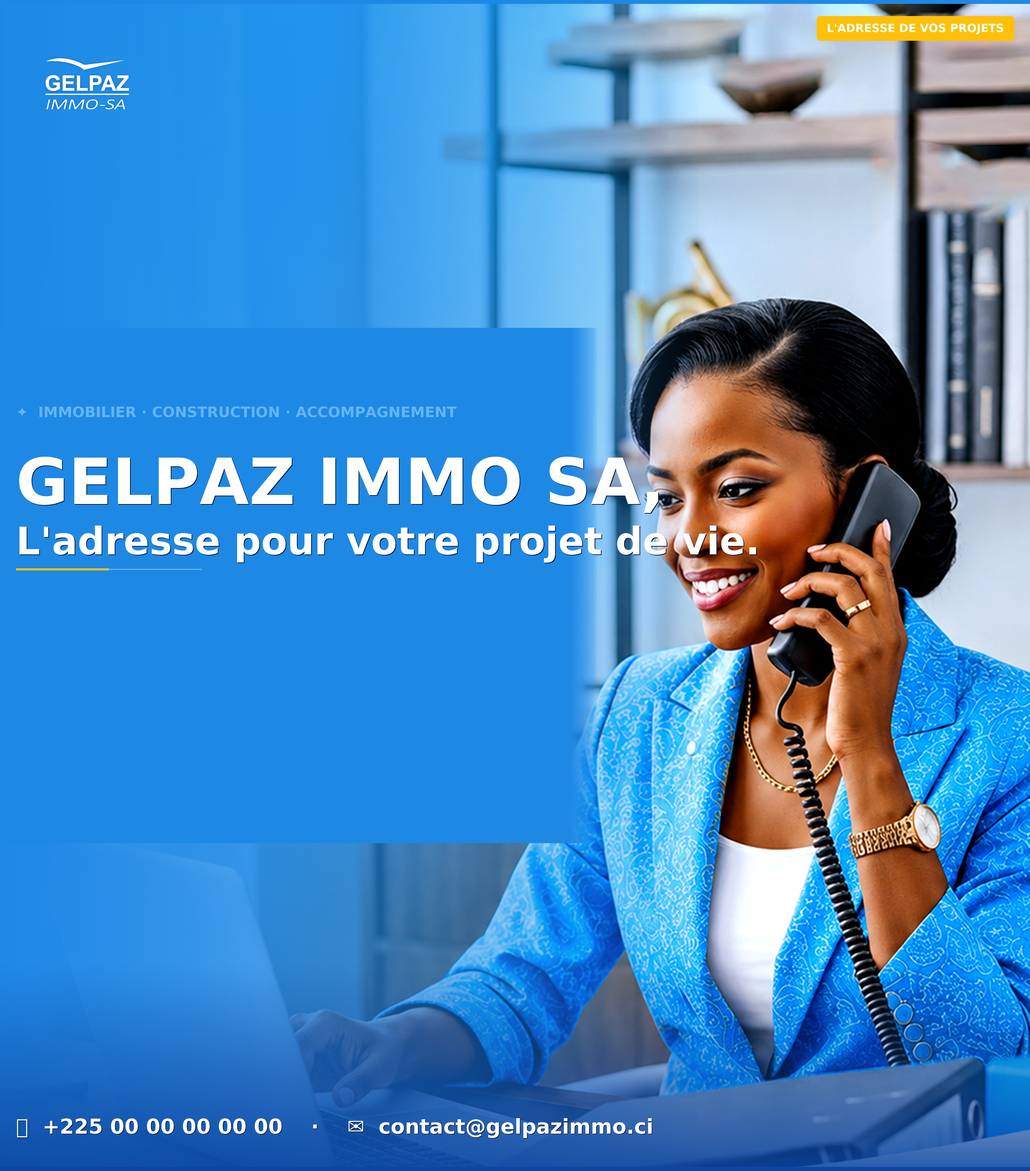
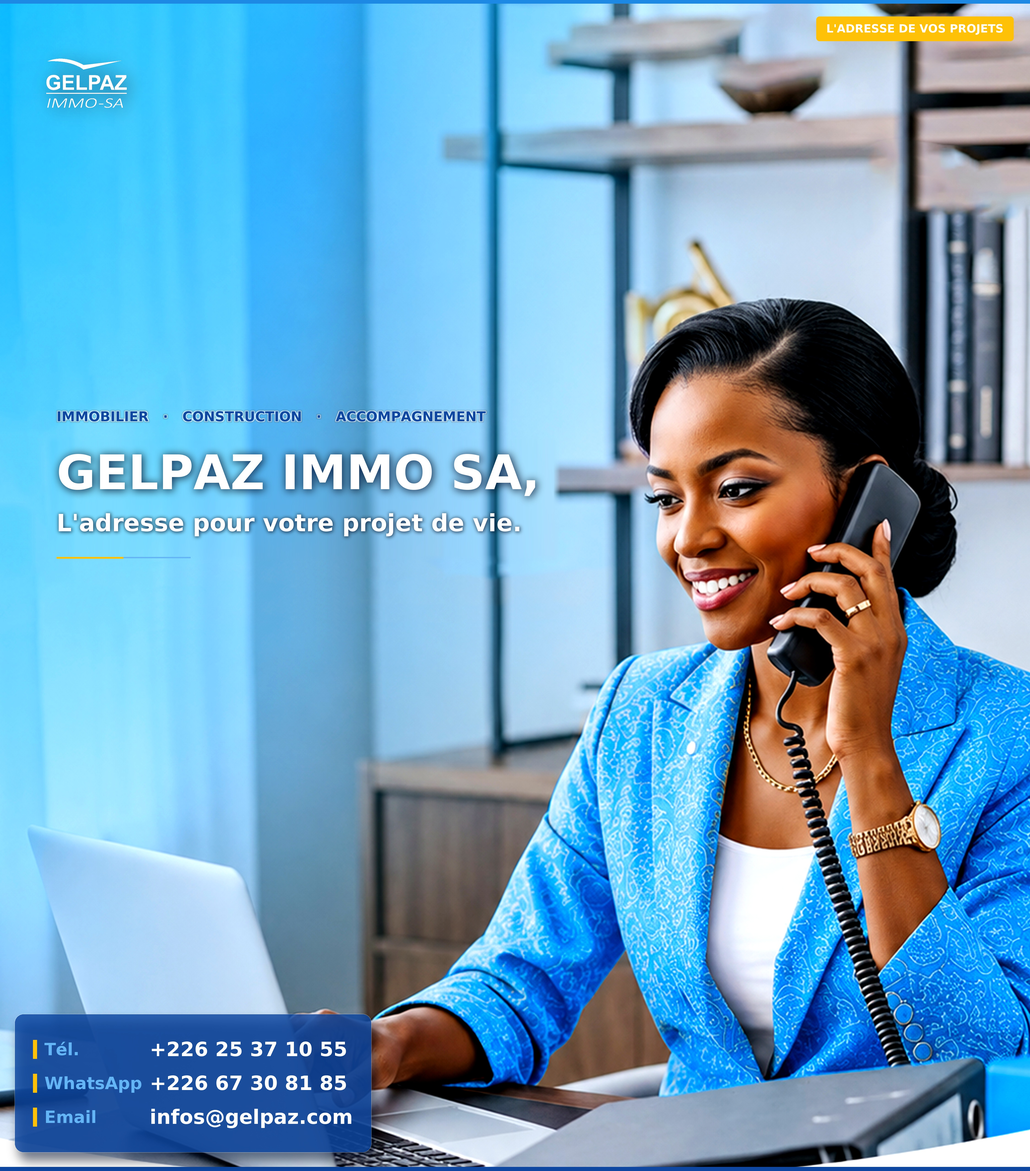
fix(hero): supprimer le panneau bleu et intégrer les vraies coordonnées
- Suppression du dégradé/plaque bleue à gauche : la photo respire pleinement
- Effacement du texte incrusté d'origine par interpolation verticale du mur
  (patch_region_wall) — aucun artefact visible, fond reconstruit proprement
- Bloc titre repositionné à l'emplacement naturel du mur, texte blanc avec
  ombre diffuse + halo pour la lisibilité sur fond clair
- Carte contact en bas à gauche avec les vraies coordonnées :
  Tél. +226 25 37 10 55 | WhatsApp +226 67 30 81 85 | infos@gelpaz.com
- Logo blanc (inversé) avec ombre portée haut gauche, badge doré haut droite

diff --git a/create_infographics.py b/create_infographics.py
@@ -248,88 +248,200 @@ def make_site():
 # ============================================================
 # 4) ADRESSE / HERO — recouvre l'ancien texte avec une plaque solide
 # ============================================================
+def patch_region_wall(img, x0, x1, y0, y1, feather_v=36, feather_h=30, band=26):
+    """Efface un texte incrusté sur un mur uniforme : chaque colonne de la zone
+    est reconstruite par interpolation verticale entre la bande de pixels juste
+    au-dessus et celle juste en dessous (le mur est régulier verticalement, donc
+    le résultat est indissociable du fond)."""
+    import numpy as np
+    a = np.array(img).astype(np.float32)
+    H_img, W_img, _ = a.shape
+    x0, x1 = max(0, x0), min(W_img, x1)
+    y0, y1 = max(band * 3, y0), min(H_img - band * 3, y1)
+    top = a[y0 - 2 * band:y0 - band, x0:x1].mean(axis=0)      # (W, 3)
+    bot = a[y1 + band:y1 + 2 * band, x0:x1].mean(axis=0)      # (W, 3)
+    H, W = y1 - y0, x1 - x0
+    t = np.linspace(0.0, 1.0, H)[:, None, None]
+    fill = top[None, :, :] * (1 - t) + bot[None, :, :] * t
+    patch = Image.fromarray(fill.astype(np.uint8), "RGB").convert("RGBA")
+    # Masque : 1 au centre, fondu sur les bords (le fondu reste hors du texte)
+    g = np.ones((H, W), np.float32)
+    for i in range(feather_v):
+        f = i / feather_v
+        g[i, :] *= f
+        g[H - 1 - i, :] *= f
+    for j in range(feather_h):
+        f = j / feather_h
+        g[:, j] *= f
+        g[:, W - 1 - j] *= f
+    patch.putalpha(Image.fromarray((g * 255).astype(np.uint8), "L"))
+    base = img.convert("RGBA")
+    base.alpha_composite(patch, (x0, y0))
+    return base.convert("RGB")
+
+
+def fit_font(text, target_w, font_path=FONT_BOLD):
+    """Renvoie une police réglée pour que le texte occupe ~target_w de large."""
+    probe = ImageFont.truetype(font_path, 100)
+    bb = probe.getbbox(text)
+    w100 = max(1, bb[2] - bb[0])
+    return ImageFont.truetype(font_path, max(12, int(100 * target_w / w100)))
+
+
+def text_soft_shadow(base, xy, text, font, fill=WHITE,
+                     shadow=(5, 28, 75, 215), offset=None, blur=None, stroke=None):
+    """Texte net + ombre diffuse (lisibilité sur fond clair)."""
+    x, y = xy
+    offset = offset or max(2, int(font.size * 0.022))
+    blur = blur or max(6, int(font.size * 0.085))
+    stroke = stroke if stroke is not None else max(1, int(font.size * 0.014))
+    layer = Image.new("RGBA", base.size, (0, 0, 0, 0))
+    ImageDraw.Draw(layer).text((x + offset, y + offset), text, font=font,
+                               fill=shadow, stroke_width=stroke, stroke_fill=shadow)
+    layer = layer.filter(ImageFilter.GaussianBlur(blur))
+    base.alpha_composite(layer)
+    ImageDraw.Draw(base).text((x, y), text, font=font, fill=fill)
+    return base
+
+
+def text_halo(base, xy, text, font, fill, halo=(255, 255, 255, 170), r=3):
+    """Texte avec halo clair (petits textes sur fond moyen)."""
+    x, y = xy
+    layer = Image.new("RGBA", base.size, (0, 0, 0, 0))
+    d = ImageDraw.Draw(layer)
+    for dx in range(-r, r + 1, 2):
+        for dy in range(-r, r + 1, 2):
+            if dx or dy:
+                d.text((x + dx, y + dy), text, font=font, fill=halo)
+    layer = layer.filter(ImageFilter.GaussianBlur(max(1, r // 2)))
+    base.alpha_composite(layer)
+    ImageDraw.Draw(base).text((x, y), text, font=font, fill=fill)
+    return base
+
+
+def paste_logo_shadowed(base, logo, xy, logo_w, shadow_alpha=150):
+    """Colle le logo avec une ombre portée douce et proportionnée."""
+    lw = logo_w
+    lh = int(logo_w * logo.size[1] / logo.size[0])
+    logo_r = logo.resize((lw, lh), Image.LANCZOS)
+    blur = max(8, int(lw * 0.055))
+    off = max(3, int(lw * 0.020))
+    pad = blur * 2
+    alpha = logo_r.getchannel("A")
+    sh = Image.new("RGBA", (lw + 2 * pad, lh + 2 * pad), (0, 0, 0, 0))
+    sh.paste(Image.new("RGBA", (lw, lh), (2, 22, 60, 255)), (pad, pad), alpha)
+    sh = sh.filter(ImageFilter.GaussianBlur(blur))
+    sh.putalpha(sh.getchannel("A").point(lambda p: int(p * shadow_alpha / 255)))
+    x, y = xy
+    lay = Image.new("RGBA", base.size, (0, 0, 0, 0))
+    lay.alpha_composite(sh, (max(0, x - pad + off), max(0, y - pad + off)))
+    base = Image.alpha_composite(base, lay)
+    lay2 = Image.new("RGBA", base.size, (0, 0, 0, 0))
+    lay2.paste(logo_r, (x, y), logo_r)
+    return Image.alpha_composite(base, lay2)
+
+
+# ============================================================
+# 4) IMAGE ADRESSE / HERO
+# ============================================================
 def make_adresse():
     print("→ 04 Image Adresse / Hero")
     img = Image.open("Adresse.jpg.jpeg").convert("RGB")
     img = enhance_image(img)
     w, h = img.size
-    # Ratio 4:5
-    target_h = int(w * 5 / 4)
-    if target_h < h:
-        top = (h - target_h) // 2
-        img = img.crop((0, top, w, top + target_h))
-        h = target_h
 
-    # Dégradé bleu fort à gauche (couvre totalement l'ancien texte)
-    # On utilise un dégradé exponentiel plus doux vers la droite pour un effet "plaque" naturel
-    img = add_gradient_left(img, width_ratio=0.68, color=GELPAZ_BLUE, max_alpha=252, exp=0.75)
-    # Plaque rectangulaire plus basse pour effacer tout reste de l'ancien titre, avec bord droit dégradé
-    overlay = Image.new("RGBA", img.size, (0, 0, 0, 0))
-    d = ImageDraw.Draw(overlay)
-    plaque_w = int(w * 0.58)
-    plaque_top = int(h * 0.28)
-    plaque_bot = int(h * 0.72)
-    d.rectangle([0, plaque_top, plaque_w - 120, plaque_bot], fill=(*GELPAZ_BLUE, 255))
-    # Bord droit de la plaque en dégradé pour transition douce
-    for x in range(120):
-        alpha = int(255 * (1 - x / 120) ** 0.7)
-        d.line([(plaque_w - 120 + x, plaque_top),
-                (plaque_w - 120 + x, plaque_bot)],
-               fill=(*GELPAZ_BLUE, alpha))
-    img = Image.alpha_composite(img.convert("RGBA"), overlay)
-    # Léger re-dégradé pour homogénéiser
-    img = add_gradient_left(img, width_ratio=0.70, color=GELPAZ_BLUE, max_alpha=120, exp=1.2)
-    # Dégradé bas pour l'info contact
-    grad = Image.new("RGBA", img.size, (0, 0, 0, 0))
-    dg = ImageDraw.Draw(grad)
-    gh = int(h * 0.18)
-    for y in range(gh):
-        t = y / gh
-        alpha = int(230 * t ** 1.2)
-        dg.line([(0, h - gh + y), (w, h - gh + y)], fill=(*GELPAZ_DARK, alpha))
-    img = Image.alpha_composite(img.convert("RGBA"), grad)
-    # Barres
-    add_horizontal_bars(img, GELPAZ_BLUE, GELPAZ_DARK, 16, 18)
-    # Logo haut gauche — en BLANC (inversé) sur fond bleu, technique infographique standard
-    img = add_logo(img, load_logo(invert_white=True), "top-left", 0.15, 55, shadow=True)
-    # Badge haut droite
-    img = add_badge(img, "L'ADRESSE DE VOS PROJETS", GOLD, "top-right", 70, font_ratio=0.011)
-    # Bloc texte
-    draw = ImageDraw.Draw(img)
-    margin = 70
-    text_x = margin
-    text_y = int(h * 0.38)
-    tag_font = ImageFont.truetype(FONT_BOLD, int(w * 0.014))
-    title_font = ImageFont.truetype(FONT_BOLD, int(w * 0.062))
-    sub_font = ImageFont.truetype(FONT_BOLD, int(w * 0.037))
-    info_font = ImageFont.truetype(FONT_BOLD, int(w * 0.020))
-    # Tag
-    tag = "✦  IMMOBILIER · CONSTRUCTION · ACCOMPAGNEMENT"
-    draw.text((text_x, text_y - int(w * 0.04)), tag, font=tag_font, fill=GELPAZ_LIGHT)
-    # Titre
-    draw.text((text_x + 3, text_y + 3), "GELPAZ IMMO SA,", font=title_font, fill=(0, 20, 60, 200))
-    draw.text((text_x, text_y), "GELPAZ IMMO SA,", font=title_font, fill=WHITE)
-    # Sous-titre
-    sy = text_y + int(w * 0.072)
-    draw.text((text_x + 3, sy + 3), "L'adresse pour votre projet de vie.", font=sub_font, fill=(0, 20, 60, 200))
-    draw.text((text_x, sy), "L'adresse pour votre projet de vie.", font=sub_font, fill=WHITE)
-    # Séparateur doré
-    sep_y = sy + int(w * 0.048)
-    draw.rectangle([text_x, sep_y, text_x + int(w * 0.09), sep_y + 8], fill=GOLD)
-    draw.rectangle([text_x + int(w * 0.09), sep_y + 2, text_x + int(w * 0.18), sep_y + 6], fill=GELPAZ_LIGHT)
-    # Contact en bas à gauche
-    info_y = h - int(w * 0.055)
-    draw.text((text_x + 2, info_y + 2),
-              "📞  +225 00 00 00 00 00    ·    ✉  contact@gelpazimmo.ci",
-              font=info_font, fill=(0, 0, 0, 150))
-    draw.text((text_x, info_y),
-              "📞  +225 00 00 00 00 00    ·    ✉  contact@gelpazimmo.ci",
-              font=info_font, fill=WHITE)
+    # 1) Effacer le texte incrusté d'origine (posé sur le mur bleu clair uni)
+    img = patch_region_wall(img, int(0.044 * w), int(0.544 * w), int(0.371 * h), int(0.481 * h))
+    base = img.convert("RGBA")
+
+    # 2) Barres d'identité GELPAZ (fines, en haut et en bas)
+    add_horizontal_bars(base, GELPAZ_BLUE, GELPAZ_DARK,
+                        max(8, int(w * 0.0035)), max(10, int(w * 0.0040)))
+
+    # 3) Logo blanc (inversé) ombré en haut à gauche + badge doré en haut à droite
+    base = paste_logo_shadowed(base, load_logo(invert_white=True),
+                               (int(w * 0.014), int(w * 0.014)), int(w * 0.145))
+    base = add_badge(base, "L'ADRESSE DE VOS PROJETS", GOLD, "top-right",
+                     int(w * 0.016), font_ratio=0.011)
+
+    # 4) Bloc texte — à l'emplacement naturel du texte d'origine (zone nettoyée)
+    x_txt = int(w * 0.055)
+    f_tag = ImageFont.truetype(FONT_BOLD, int(w * 0.0132))
+    f_title = fit_font("GELPAZ IMMO SA,", int(w * 0.470))
+    f_sub = fit_font("L'adresse pour votre projet de vie.", int(w * 0.455))
+    tag = "IMMOBILIER   ·   CONSTRUCTION   ·   ACCOMPAGNEMENT"
+    tag_y = int(h * 0.349)
+    title = "GELPAZ IMMO SA,"
+    t_y = int(h * 0.380)
+    sub = "L'adresse pour votre projet de vie."
+    s_y = t_y + int(w * 0.0625)
+
+    text_halo(base, (x_txt, tag_y), tag, f_tag, GELPAZ_DARK, r=4)
+    text_soft_shadow(base, (x_txt, t_y), title, f_title)
+    text_soft_shadow(base, (x_txt, s_y), sub, f_sub)
+
+    # Barre d'accent dorée + bleue sous le slogan
+    d = ImageDraw.Draw(base)
+    bar_y = s_y + int(w * 0.0465)
+    h_bar = max(6, int(w * 0.0022))
+    d.rectangle([x_txt, bar_y, x_txt + int(w * 0.065), bar_y + h_bar - 2], fill=GOLD)
+    d.rectangle([x_txt + int(w * 0.065), bar_y, x_txt + int(w * 0.130), bar_y + h_bar - 4],
+                fill=GELPAZ_LIGHT)
+
+    # 5) Carte contact (bas gauche) — vraies coordonnées
+    contacts = [("Tél.", "+226 25 37 10 55"),
+                ("WhatsApp", "+226 67 30 81 85"),
+                ("Email", "infos@gelpaz.com")]
+    f_lab = ImageFont.truetype(FONT_BOLD, int(w * 0.0165))
+    f_val = ImageFont.truetype(FONT_BOLD, int(w * 0.0195))
+    meas = ImageDraw.Draw(Image.new("RGBA", (8, 8)))
+    lab_w = max(meas.textbbox((0, 0), l, font=f_lab)[2] for l, _ in contacts)
+    val_w = max(meas.textbbox((0, 0), v, font=f_val)[2] for _, v in contacts)
+    bullet_w = max(6, int(w * 0.0038))
+    gap = int(w * 0.0075)
+    inner = int(w * 0.018)
+    line_h = int(w * 0.033)
+    card_w = inner * 2 + bullet_w + gap + lab_w + gap + val_w
+    card_h = inner * 2 + line_h * len(contacts)
+    card_x = int(w * 0.014)
+    card_y = h - card_h - int(w * 0.014) - int(w * 0.0040)
+
+    # Ombre douce de la carte
+    sh = Image.new("RGBA", base.size, (0, 0, 0, 0))
+    o = max(6, int(w * 0.004))
+    ImageDraw.Draw(sh).rounded_rectangle(
+        [card_x + o, card_y + o * 2, card_x + card_w + o, card_y + card_h + o * 2],
+        radius=int(w * 0.009), fill=(0, 15, 45, 140))
+    sh = sh.filter(ImageFilter.GaussianBlur(max(8, int(w * 0.005))))
+    base.alpha_composite(sh)
+
+    card = Image.new("RGBA", base.size, (0, 0, 0, 0))
+    dc = ImageDraw.Draw(card)
+    dc.rounded_rectangle([card_x, card_y, card_x + card_w, card_y + card_h],
+                         radius=int(w * 0.009), fill=(*GELPAZ_DARK, 210),
+                         outline=(255, 255, 255, 80), width=max(2, int(w * 0.0006)))
+    base = Image.alpha_composite(base, card)
+
+    d = ImageDraw.Draw(base)
+    for i, (lab, val) in enumerate(contacts):
+        cy = card_y + inner + line_h * i + line_h // 2
+        bx = card_x + inner
+        d.rectangle([bx, cy - int(line_h * 0.28), bx + bullet_w, cy + int(line_h * 0.28)],
+                    fill=GOLD)
+        tx = bx + bullet_w + gap
+        d.text((tx, cy), lab, font=f_lab, fill=GELPAZ_LIGHT, anchor="lm")
+        d.text((tx + lab_w + gap, cy), val, font=f_val, fill=WHITE, anchor="lm")
+
+    # 6) Fond opaque + enregistrement
+    out_img = Image.alpha_composite(Image.new("RGBA", base.size, (255, 255, 255, 255)), base)
     out = os.path.join(OUT_DIR, "04_Adresse_Hero_Gelpaz.jpg")
-    img.convert("RGB").save(out, "JPEG", quality=93, optimize=True)
+    out_img.convert("RGB").save(out, "JPEG", quality=93, optimize=True)
     print(f"  ✓ {out}")
 
 
+# ============================================================
+# 5) SUITE
+# ============================================================
 if __name__ == "__main__":
     os.makedirs(OUT_DIR, exist_ok=True)
     make_reception()
